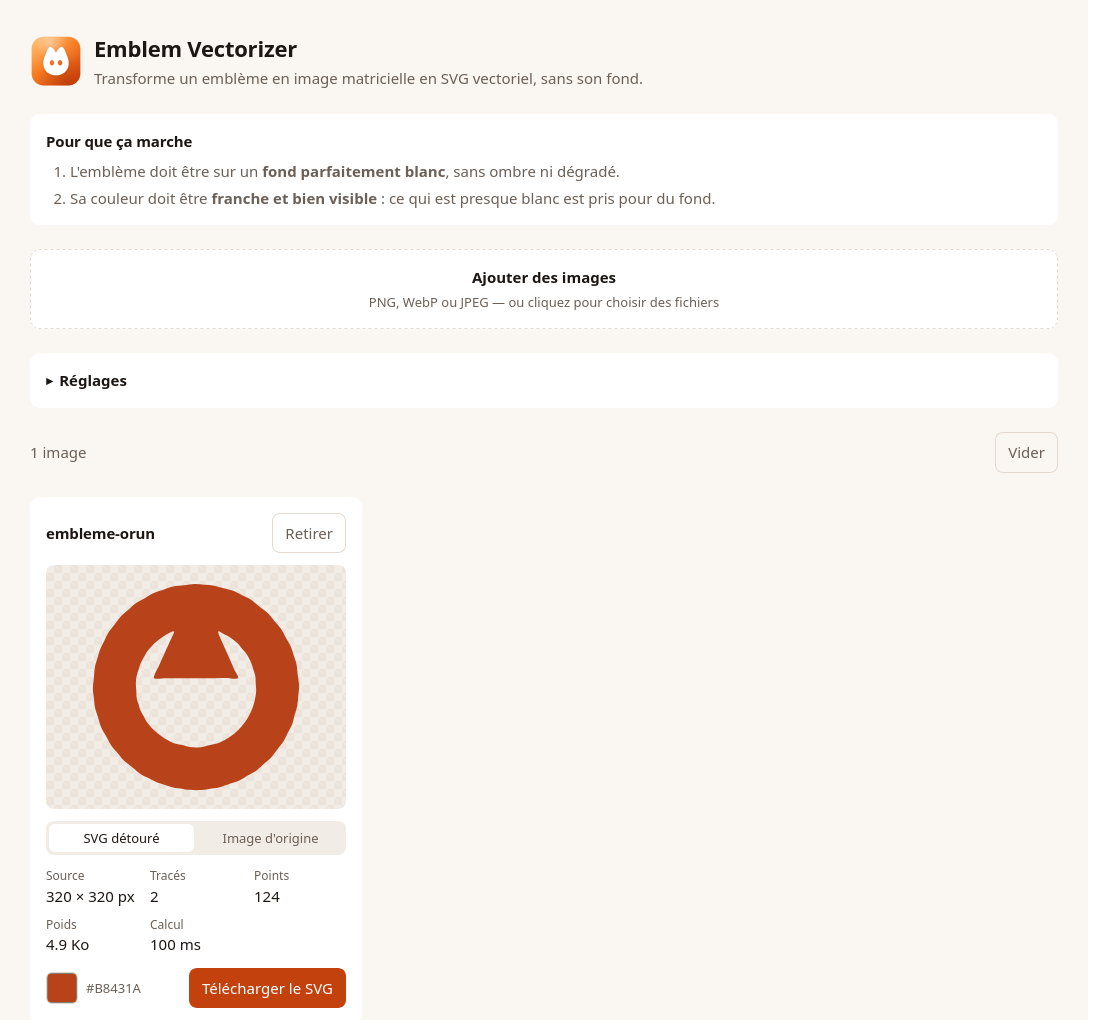
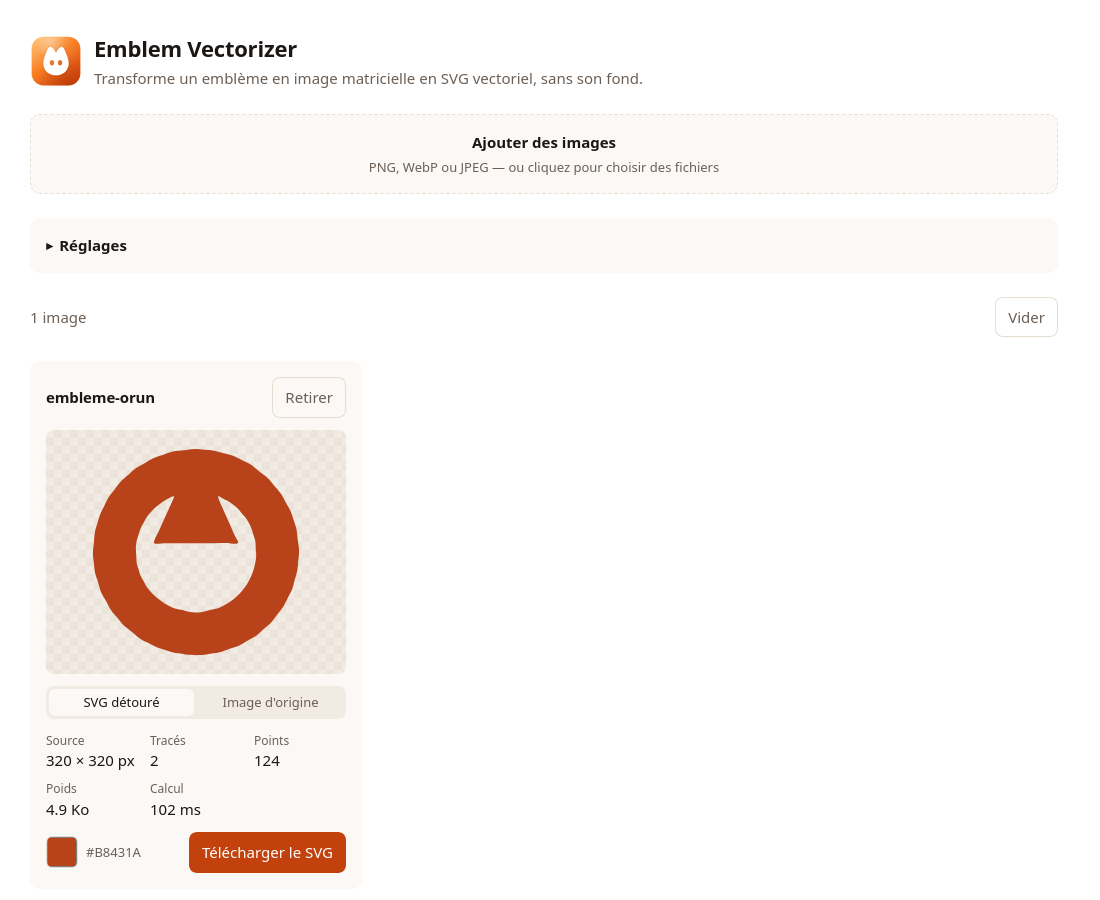
docs: light only, and a window the size of a postcard
The identity table listed a dark column that no longer exists, and the screenshot
still showed the warm page. Both are refreshed, and the desktop guide now says what
the window does and where to change it.

diff --git a/README.md b/README.md
@@ -139,6 +139,11 @@ système qu'il vise, d'où le workflow GitHub Actions qui compile sur quatre mac
 | Windows | `.exe` (NSIS), `.msi` | environ 3 Mo |
 | macOS | `.app`, `.dmg` | environ 10 Mo |
 
+La fenêtre s'ouvre centrée, petite et carrée : 620 par 620, redimensionnable, rien à
+faire défiler pour atteindre le bouton de téléchargement.
+
+<img src="docs/images/fenetre-bureau.png" width="420" alt="La fenêtre du logiciel de bureau">
+
 Prérequis, compilation locale, compilation croisée et signature :
 [`docs/desktop.md`](docs/desktop.md).
 
@@ -151,14 +156,16 @@ blanc aux yeux évidés sur un carré arrondi en dégradé d'orange chaleureux. 
 d'icône d'application, de favicon et de marque dans l'en-tête, et c'est la source de
 toutes les icônes de plateforme.
 
-Toute la couleur de l'interface tient dans des variables CSS en haut de
-`src/styles/app.css`, en clair comme en sombre.
+L'interface est en mode clair uniquement, sur fond blanc. Toute sa couleur tient dans
+une dizaine de variables CSS en haut de `src/styles/app.css`.
 
-| Usage | Clair | Sombre |
-| --- | --- | --- |
-| Accent | `#C2410C` | `#FF8A3D` |
-| Fond | `#FAF6F2` | `#171310` |
-| Dégradé du logo | `#FFB45E` vers `#F97E22` vers `#D2400A` | identique |
+| Usage | Valeur |
+| --- | --- |
+| Fond de page | `#FFFFFF` |
+| Panneaux et cartes | `#FBF8F5` |
+| Accent, boutons, focus | `#C2410C` |
+| Texte | `#1C1714`, et `#6B5F56` en atténué |
+| Dégradé du logo | `#FFB45E` vers `#F97E22` vers `#D2400A` |
 
 ## Structure
 

diff --git a/docs/desktop.md b/docs/desktop.md
@@ -114,6 +114,17 @@ Les paquets ne sont pas signés. En l'état :
 
 C'est un choix à faire au moment de distribuer, pas un défaut de configuration.
 
+## La fenêtre
+
+Le logiciel fait une chose en quelques secondes : la fenêtre s'ouvre centrée, en 620
+par 620, sans bouton d'agrandissement, et ne descend pas sous 400 par 460. En dessous
+de 680 pixels de large, la mise en page se resserre et le rappel des deux conditions
+s'efface dès qu'une image est chargée, pour que l'aperçu, les chiffres et le bouton de
+téléchargement tiennent ensemble sans défilement.
+
+Ces valeurs sont dans `src-tauri/tauri.conf.json`, section `app.windows`. Pour que la
+fenêtre reste au-dessus des autres, ajoutez-y `"alwaysOnTop": true`.
+
 ## Ce que la coque fait, et ne fait pas
 
 La vectorisation tourne dans la webview, avec exactement le même code TypeScript que la
